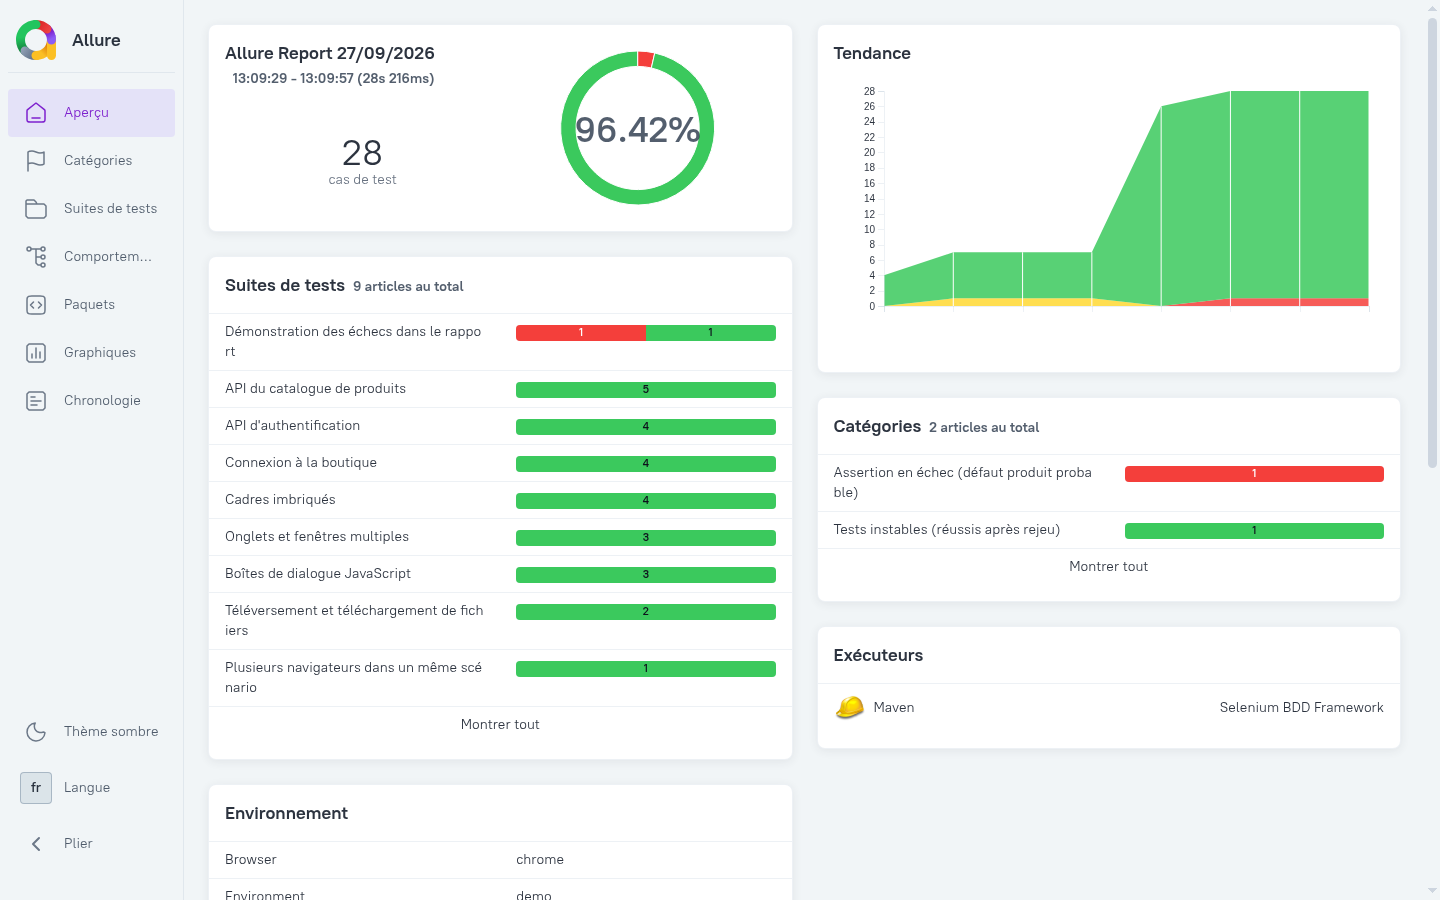
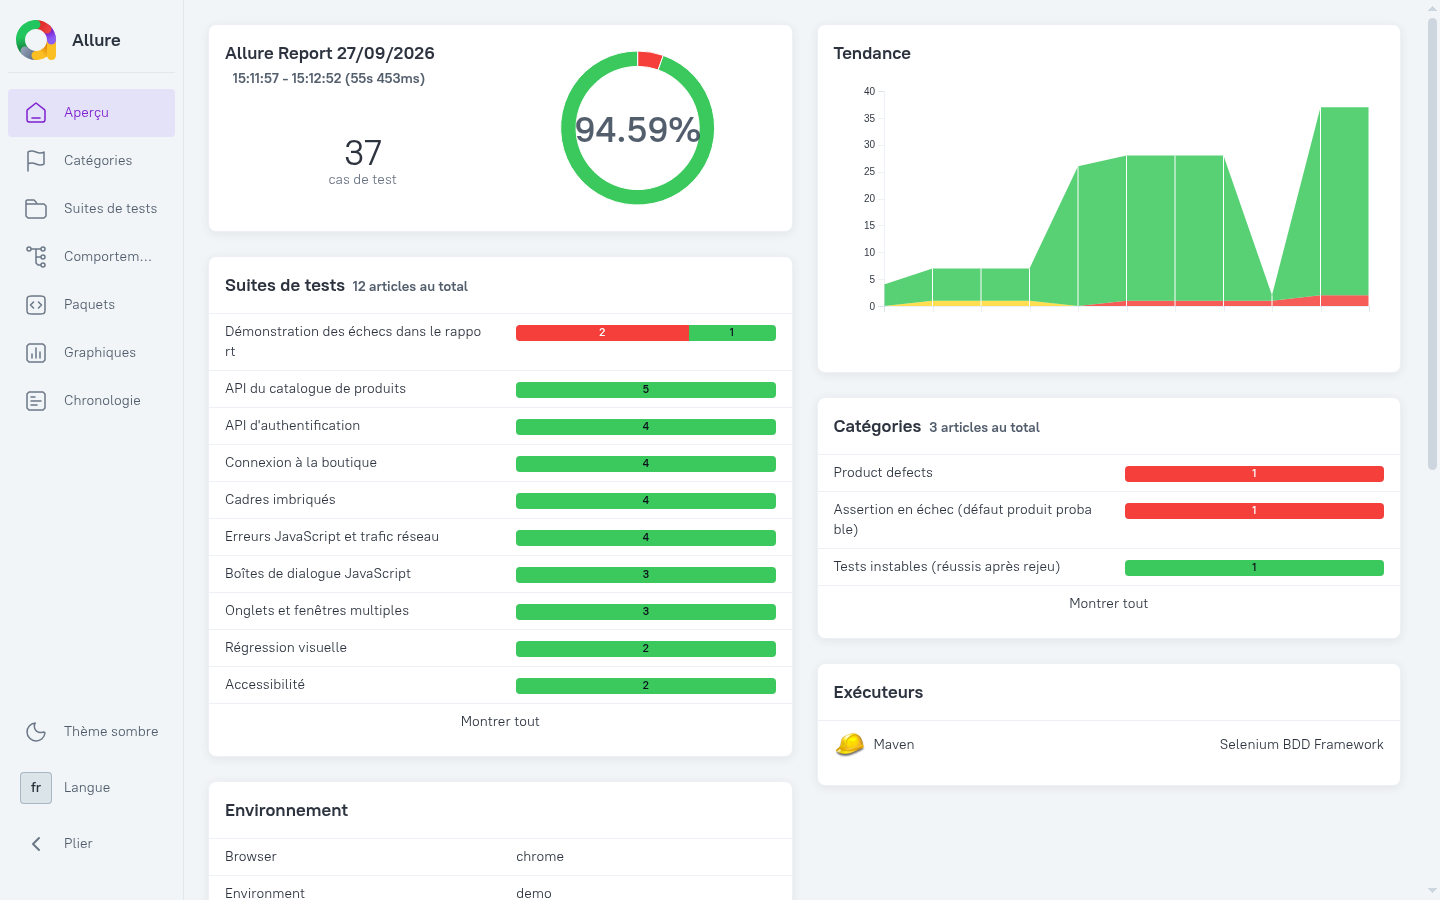
Médias à jour pour le jalon 7
- Captures : audit d'accessibilité, diff visuel Allure, requêtes en échec
  captées par BiDi ; page d'accueil Pages et rapport combiné à 34 scénarios.
- Vidéo : section « Au-delà du fonctionnel » (catalogue sans images filmé,
  accessibilité, régression visuelle), sans l'écran d'accueil de la Grid en
  début et fin de séquence.
- Scénario de démo de régression visuelle : un bouton qui change de couleur.
- Mode démo : encadrement des éléments attendus et pause avant la fermeture
  du navigateur, pour que l'état final reste visible dans la vidéo.
- README : lien vers la vidéo de la dernière release.

diff --git a/docs/tools/make_demo_video.py b/docs/tools/make_demo_video.py
@@ -1,7 +1,7 @@
 """Edits the demo video (MP4) and the README GIF from the Grid videos of a demo-mode run.
 
     ./mvnw clean test -DnoRerun -Dexecution=grid -Dvideo=true -Ddemo=true -Dthreads=2 \
-        -Dcucumber.filter.tags="@fenetres or @cadres or @dialogues or @fichiers or @multi-navigateurs or @auth"
+        -Dcucumber.filter.tags="@fenetres or @cadres or @dialogues or @fichiers or @multi-navigateurs or @auth or @bidi"
     python3 docs/tools/make_demo_video.py
 
 Scenario videos are found through the "Scenario '...' sessions: {...}" lines of the run log.
@@ -23,6 +23,10 @@ BACKGROUND = "0x111827"
 ACCENT = "0x60a5fa"
 # Part of the 1920x1080 Grid screen that holds the pages (the-internet is centred and narrow)
 CROP = "crop=1440:810:240:0"
+# The recording goes on for a moment after the browser quits, on the Grid splash screen: cut it
+TAIL = 1.2
+# ...and starts on it, before the browser window opens
+HEAD = 0.8
 ENCODE = ["-c:v", "libx264", "-preset", "medium", "-crf", "23", "-pix_fmt", "yuv420p", "-r", str(FPS), "-an"]
 
 
@@ -96,9 +100,10 @@ class Editor:
 
     def clip(self, scenario, caption, hold=1.0):
         source = self.video_of(scenario)
-        seconds = self.duration(source) + hold
+        length = self.duration(source) - TAIL - HEAD
+        seconds = length + hold
         filters = [
-            CROP, f"scale={W}:{H}", "setsar=1", f"tpad=stop_mode=clone:stop_duration={hold}",
+            f"trim=start={HEAD}:end={HEAD + length:.2f}", "setpts=PTS-STARTPTS", CROP, f"scale={W}:{H}", "setsar=1", f"tpad=stop_mode=clone:stop_duration={hold}",
             self._caption(caption), self._fades(seconds),
         ]
         return self._render(["-i", str(source), "-vf", ",".join(filters), "-t", f"{seconds:.2f}"], "clip")
@@ -106,13 +111,15 @@ class Editor:
     def duo(self, scenario, left, right, caption, right_delay=3.0, hold=1.0):
         """Two browsers of one scenario, side by side; the right one started later."""
         a, b = self.video_of(scenario, left), self.video_of(scenario, right)
-        seconds = max(self.duration(a), self.duration(b) + right_delay) + hold
+        length_a, length_b = self.duration(a) - TAIL - HEAD, self.duration(b) - TAIL - HEAD
+        seconds = max(length_a, length_b + right_delay) + hold
         half_w, half_h = W // 2 - 10, (W // 2 - 10) * 9 // 16
         top = (H - half_h) // 2 - 20
         graph = ";".join([
-            f"[0:v]{CROP},scale={half_w}:{half_h},setsar=1,tpad=stop_mode=clone:stop_duration=30[a]",
-            f"[1:v]{CROP},scale={half_w}:{half_h},setsar=1,"
-            f"tpad=start_mode=clone:start_duration={right_delay}:stop_mode=clone:stop_duration=30[b]",
+            f"[0:v]trim=start={HEAD}:end={HEAD + length_a:.2f},setpts=PTS-STARTPTS,{CROP},scale={half_w}:{half_h},setsar=1,tpad=stop_mode=clone:stop_duration=30[a]",
+            f"[1:v]trim=start={HEAD}:end={HEAD + length_b:.2f},setpts=PTS-STARTPTS,{CROP},scale={half_w}:{half_h},setsar=1,"
+            # Nothing to show until the second browser starts: an empty panel
+            f"tpad=start_mode=add:start_duration={right_delay}:color={BACKGROUND}:stop_mode=clone:stop_duration=30[b]",
             f"color=c={BACKGROUND}:s={W}x{H}:r={FPS}[bg]",
             f"[bg][a]overlay=5:{top}:shortest=0[t1]",
             f"[t1][b]overlay={W // 2 + 5}:{top}[t2]",
@@ -161,7 +168,7 @@ def read_sessions(log):
 def demo_mp4(ed, images, out):
     img = Path(images)
     parts = [
-        ed.card("Selenium BDD Framework", "Selenium 4 · Java 21 · Cucumber en français · Allure", 5),
+        ed.card("Selenium BDD Framework", "Selenium 4 · Java 21 · Cucumber en français · Allure · BiDi · axe-core", 5),
         ed.card("Des scénarios lisibles par tous",
                 "Gherkin en français, exécutés en parallèle sur une Selenium Grid\n"
                 "Mode démo : chaque élément utilisé est encadré en rouge", 6),
@@ -180,8 +187,14 @@ def demo_mp4(ed, images, out):
         ed.card("Plusieurs navigateurs", "Deux clients connectés en même temps, chacun son panier", 3.5),
         ed.duo("Deux clients connectés en même temps ont chacun leur panier", "Alice", "Bob",
                "Un scénario, deux navigateurs indépendants"),
+        ed.card("Au-delà du fonctionnel", "Accessibilité, erreurs JavaScript et réseau, régression visuelle", 3.5),
+        ed.clip("La boutique reste utilisable quand ses images ne se chargent pas",
+                "WebDriver BiDi : les images échouent exprès, le catalogue reste utilisable"),
+        ed.slide(img / "allure-accessibilite.png", "Accessibilité : audit axe-core WCAG 2.1 AA, écarts connus justifiés", 5),
+        ed.slide(img / "allure-diff-visuel.png", "Régression visuelle : seul le bouton modifié ressort en rouge", 5),
         ed.card("Et quand un test échoue ?", "Le rapport Allure donne tout pour comprendre", 3.5),
         ed.slide(img / "allure-echec.png", "Capture, source de la page, logs et vidéo joints à l'échec", 6),
+        ed.slide(img / "allure-bidi.png", "Requêtes en échec et erreurs JavaScript captées par BiDi", 5),
         ed.slide(img / "allure-instable.png", "Rejeu automatique : réussi au 2e passage, marqué instable", 5),
         ed.slide(img / "allure-api.png", "Tests d'API : requêtes et réponses jointes, secrets masqués", 5),
         ed.slide(img / "allure-apercu.png", "Vue d'ensemble, tendance d'un run à l'autre, catégories d'échecs", 5),

diff --git a/docs/tools/capture_screenshots.py b/docs/tools/capture_screenshots.py
@@ -131,6 +131,40 @@ def report_pages(cam, report):
     cam.scroll_pane_to("step__title", "Alors le catalogue contient")
     cam.shot("allure-echec")
 
+    # WebDriver BiDi: failed requests of the browser, attached to the failed scenario
+    cam.open(f"{report}/#suites")
+    cam.click_text("node__title", "Démonstration des échecs")
+    cam.click_text("node__title", "Le catalogue n'a pas")
+    cam.click_text("step__title", "Post exécution")
+    cam.click_text("step__title", "captureFailureEvidence")
+    cam.click_text("attachment-row", "Failed requests")
+    cam.scroll_pane_to("attachment-row", "Failed requests")
+    cam.shot("allure-bidi")
+
+    # Accessibility audit attached to the step, with a known and accepted issue
+    cam.open(f"{report}/#suites")
+    cam.click_text("node__title", "Accessibilité")
+    cam.click_text("node__title", "Le formulaire de connexion de the-internet")
+    cam.click_text("step__title", "hormis les écarts connus")
+    cam.click_text("attachment-row", "Accessibility audit")
+    cam.scroll_pane_to("step__title", "hormis les écarts connus")
+    cam.shot("allure-accessibilite")
+
+    # Visual regression: reference, screenshot and differences (Allure screen diff)
+    cam.open(f"{report}/#suites")
+    cam.click_text("node__title", "Démonstration des échecs")
+    cam.click_text("node__title", "Une régression visuelle")
+    cam.click_text("step__title", "l'apparence de la page est conforme")
+    cam.click_text("attachment-row", "Visual differences")
+    # The diff is shown at its real size (1920 px): fit it to the pane, as a zoom out would
+    cam.driver.execute_script(
+        "const style = document.createElement('style');"
+        "style.textContent = '.screen-diff__content img, .screen-diff__image { max-width: 100%; height: auto; }';"
+        "document.head.appendChild(style);"
+    )
+    cam.scroll_pane_to("attachment-row", "Visual differences")
+    cam.shot("allure-diff-visuel")
+
     # A flaky scenario: failed on the first pass, passed on the rerun
     cam.open(f"{report}/#suites")
     cam.click_text("node__title", "Démonstration des échecs")

diff --git a/src/test/java/io/github/phlearning/bdd/hooks/DriverHooks.java b/src/test/java/io/github/phlearning/bdd/hooks/DriverHooks.java
@@ -4,6 +4,7 @@ import io.cucumber.java.After;
 import io.cucumber.java.Scenario;
 import io.github.phlearning.bdd.config.Config;
 import io.github.phlearning.bdd.driver.BrowserSession;
+import io.github.phlearning.bdd.driver.DemoMode;
 import io.github.phlearning.bdd.driver.DriverFactory;
 import io.github.phlearning.bdd.driver.DriverManager;
 import io.github.phlearning.bdd.reporting.GridVideos;
@@ -23,6 +24,7 @@ public class DriverHooks {
 
     private final DriverManager driverManager;
     private final Config config = Config.get();
+    private final DemoMode demo = DemoMode.from(config);
 
     public DriverHooks(DriverManager driverManager) {
         this.driverManager = driverManager;
@@ -42,6 +44,8 @@ public class DriverHooks {
         if (!sessionIdsByBrowser.isEmpty()) {
             LOG.info("Scenario '{}' sessions: {}", scenario.getName(), sessionIdsByBrowser);
         }
+        // Demo mode: the final state of each browser stays on screen (and in its video) for a moment
+        driverManager.startedSessions().forEach(session -> demo.pause(session.driver()));
         driverManager.quit();
         if (scenario.isFailed() && DriverFactory.isGrid(config) && config.getBoolean("video")) {
             attachVideos(scenario, sessionIdsByBrowser);

diff --git a/src/test/java/io/github/phlearning/bdd/steps/DemoSteps.java b/src/test/java/io/github/phlearning/bdd/steps/DemoSteps.java
@@ -1,9 +1,18 @@
 package io.github.phlearning.bdd.steps;
 
 import io.cucumber.java.fr.Et;
+import io.cucumber.java.fr.Quand;
+import io.github.phlearning.bdd.driver.DriverManager;
+import org.openqa.selenium.JavascriptExecutor;
 
 /** Steps of the demo scenarios (features/demo), which illustrate failures in the report. */
 public class DemoSteps {
+
+    private final DriverManager driverManager;
+
+    public DemoSteps(DriverManager driverManager) {
+        this.driverManager = driverManager;
+    }
 
     /** Fails on the first pass only: the rerun passes, so the scenario is reported as flaky. */
     @Et("le réseau est instable au premier passage")
@@ -11,5 +20,12 @@ public class DemoSteps {
         if (!Boolean.getBoolean("rerun.pass")) {
             throw new AssertionError("Délai dépassé en attendant la réponse du serveur (simulé)");
         }
+    }
+
+    /** A small style regression, as a faulty CSS change would introduce. */
+    @Quand("le bouton de connexion change de couleur")
+    public void leBoutonDeConnexionChangeDeCouleur() {
+        ((JavascriptExecutor) driverManager.getDriver())
+                .executeScript("document.querySelector('#login-button').style.backgroundColor = '#e67e22';");
     }
 }

diff --git a/src/test/java/io/github/phlearning/bdd/pages/BasePage.java b/src/test/java/io/github/phlearning/bdd/pages/BasePage.java
@@ -50,7 +50,9 @@ public abstract class BasePage {
     }
 
     protected WebElement visible(By locator) {
-        return wait.until(ExpectedConditions.visibilityOfElementLocated(locator));
+        WebElement element = wait.until(ExpectedConditions.visibilityOfElementLocated(locator));
+        demo.highlight(driver, element);
+        return element;
     }
 
     protected void click(By locator) {

diff --git a/README.md b/README.md
@@ -24,7 +24,7 @@ Ce qu'il montre :
 
 ![Démo : onglets et fenêtres pilotés par alias, puis deux navigateurs dans un même scénario](docs/images/demo.gif)
 
-🎬 **Vidéo de présentation (2 min 20)** : [`demo.mp4`](https://github.com/phlearning/selenium-bdd-framework/releases/download/v1.0.0/demo.mp4),
+🎬 **Vidéo de présentation (2 min 20)** : [`demo.mp4`](https://github.com/phlearning/selenium-bdd-framework/releases/latest/download/demo.mp4),
 scénarios filmés sur la Grid en [mode démo](#mode-démo), puis les rapports.
 
 ## Sommaire
@@ -54,10 +54,12 @@ scénarios filmés sur la Grid en [mode démo](#mode-démo), puis les rapports.
 |---|---|
 | ![Page d'accueil des rapports](docs/images/pages-accueil.png) **Page d'accueil des rapports** sur GitHub Pages : statut, taux de réussite, tendance | ![Rapport Allure, vue d'ensemble](docs/images/allure-apercu.png) **Rapport Allure** : vue d'ensemble, tendance, catégories d'échecs |
 | ![Scénario en échec](docs/images/allure-echec.png) **Échec** : capture, source HTML, logs et vidéo joints au scénario | ![Test instable](docs/images/allure-instable.png) **Test instable** : échoué au 1er passage, réussi au rejeu |
-| ![Test d'API](docs/images/allure-api.png) **API** : requêtes et réponses jointes aux étapes, mot de passe masqué | ![Rapport combiné](docs/images/allure-combine-navigateurs.png) **Rapport combiné** Chrome + Firefox, un paramètre `Navigateur` par test |
+| ![Scénario avec ses étapes](docs/images/allure-scenario.png) **Scénario** : étapes Gherkin, durées, pièces jointes | ![Rapport combiné](docs/images/allure-combine-navigateurs.png) **Rapport combiné** Chrome + Firefox, un paramètre `Navigateur` par test |
+| ![Audit d'accessibilité](docs/images/allure-accessibilite.png) **Accessibilité** : audit axe-core WCAG 2.1 AA joint à l'étape, écart connu justifié | ![Régression visuelle](docs/images/allure-diff-visuel.png) **Régression visuelle** : seul le bouton modifié ressort en rouge (*screen diff* Allure) |
+| ![Requêtes en échec captées par BiDi](docs/images/allure-bidi.png) **WebDriver BiDi** : requêtes en échec (et erreurs JavaScript) jointes au scénario en échec | ![Test d'API](docs/images/allure-api.png) **API** : requêtes et réponses jointes aux étapes, mot de passe masqué |
 | ![Job Jenkins](docs/images/jenkins-job.png) **Jenkins** : tendances JUnit et Allure, vue des étapes | ![Étapes d'un build Jenkins](docs/images/jenkins-pipeline.png) **Build Jenkins** : étapes et logs |
 
-L'échec et le test instable viennent des scénarios de démonstration ([`echecs.feature`](src/test/resources-demo/features/demo/echecs.feature)), ajoutés
+L'échec, le test instable et la régression visuelle viennent des scénarios de démonstration ([`echecs.feature`](src/test/resources-demo/features/demo/echecs.feature)), ajoutés
 seulement par le profil Maven `-Pdemo-scenarios`. Les captures et la
 vidéo se régénèrent par script : [`docs/tools/`](docs/tools/README.md).
 
@@ -420,7 +422,7 @@ navigateurs).
 
 `-Ddemo=true` rend une exécution lisible par un humain, pour une démonstration ou pour comprendre un échec en
 regardant le navigateur (ou sa vidéo) : chaque élément est **encadré en rouge** avant d'être utilisé, et une pause
-de `demo.delay` ms (700 par défaut) suit chaque action : chargement de page, élément, changement de fenêtre. Les pauses s'exécutent dans le navigateur
+de `demo.delay` ms (700 par défaut) suit chaque action (chargement de page, élément, changement de fenêtre) et précède la fermeture du navigateur. Les pauses s'exécutent dans le navigateur
 (`setTimeout`), jamais par `Thread.sleep`.
 
 ```bash

diff --git a/docs/tools/README.md b/docs/tools/README.md
@@ -37,7 +37,7 @@ export THE_INTERNET_URL=http://the-internet:5000     # navigateurs de la Grid
    ```bash
    rm -f .grid/videos/*
    ./mvnw clean test -DnoRerun -Dexecution=grid -Dvideo=true -Ddemo=true -Dthreads=2 \
-       -Dcucumber.filter.tags="@fenetres or @cadres or @dialogues or @fichiers or @multi-navigateurs or @auth"
+       -Dcucumber.filter.tags="@fenetres or @cadres or @dialogues or @fichiers or @multi-navigateurs or @auth or @bidi"
    ```
 
 2. Le montage : le script retrouve la vidéo de chaque scénario grâce aux lignes `Scenario '...' sessions: {...}`
@@ -50,5 +50,5 @@ export THE_INTERNET_URL=http://the-internet:5000     # navigateurs de la Grid
    Résultat : `docs/images/demo.gif` (README) et `target/media/demo.mp4`, à joindre à une release GitHub :
 
    ```bash
-   gh release upload v1.0.0 target/media/demo.mp4 --clobber
+   gh release upload <version> target/media/demo.mp4 --clobber   # le README pointe sur la dernière release
    ```
